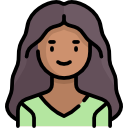
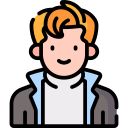
change img to Image

diff --git a/src/components/users/modificar.js b/src/components/users/modificar.js
@@ -1,10 +1,11 @@
 'use client'
 import { editUser } from '@/lib/actions/users'
 import { useActionState, useEffect, useId } from 'react'
-import { EyeIcon, EyeOffIcon, PlusIcon, RefreshCwIcon, UserRoundIcon } from 'lucide-react';
+import { EyeIcon, EyeOffIcon, PlusIcon, RefreshCwIcon } from 'lucide-react';
 import { toast } from 'sonner';
 import CheckBox from '@/components/check-box';
 import CheckRadio from '@/components/check-radio';
+import Image from 'next/image';
 
 
 
@@ -54,7 +55,7 @@ export default function UserModificar({ session, user }) {
                     defaultChecked={true}
                     className="size-14 has-checked:col-span-4 has-checked:row-span-3 has-checked:-order-1 has-checked:size-36 has-checked:bg-green-200 px-2 py-1 rounded-md"
                 >
-                    <img src={user.image || '/images/avatar-80.png'} alt="Imagen de usuario" />
+                    <Image src={user.image || '/images/avatar-80.png'} alt='avatar' />
                 </CheckRadio>
             </div>
 

diff --git a/src/components/users/eliminar.js b/src/components/users/eliminar.js
@@ -1,6 +1,7 @@
 'use client'
 import { deleteUser } from "@/lib/actions/users";
-import { RefreshCwIcon, TrashIcon, UserRoundIcon } from "lucide-react";
+import { RefreshCwIcon, TrashIcon } from "lucide-react";
+import Image from "next/image";
 import { useRouter } from "next/navigation";   // IMPORTANTE: No importar desde next/router
 import { useActionState, useEffect, useId } from "react";
 import { toast } from "sonner";
@@ -42,7 +43,7 @@ function UserEliminar({ user }) {
 
             <div className="grid md:grid-cols-[120px_auto] gap-4">
 
-                <img src={user.image || '/images/avatar-80.png'} alt="Imagen de usuario" width={192} />
+                <Image src={user.image || '/images/avatar-80.png'} alt="avatar" width={192} />
 
                 <div>
                     {user.active

diff --git a/src/components/header.js b/src/components/header.js
@@ -3,6 +3,7 @@ import { logout } from '@/lib/actions/auth';
 import { auth } from '@/auth';
 import MenuLink from '@/components/menu-link';
 import Link from 'next/link'
+import Image from 'next/image';
 
 
 
@@ -41,7 +42,7 @@ export default async function Header() {
             <Link
               href="/dashboard"
               className="w-full rounded-full hover:outline hover:outline-slate-600 cursor-pointer">
-              {session.user.image ? <img src={session.user.image} className='size-10 rounded-full' /> : <UserRoundIcon className='size-10 p-2' />}
+              <Image src={session.user.image || '/images/avatar-80.png'} alt='avatar' className='size-10 rounded-full' />
             </Link>
 
             <form className="flex gap-2 items-center">

diff --git a/src/components/users/insertar.js b/src/components/users/insertar.js
@@ -5,6 +5,7 @@ import { PlusIcon, RefreshCwIcon } from 'lucide-react';
 import { toast } from 'sonner';
 import CheckBox from '@/components/check-box';
 import CheckRadio from '@/components/check-radio';
+import Image from 'next/image';
 
 
 
@@ -53,7 +54,7 @@ export default function UserInsertar({ session }) {
                     defaultChecked={true}
                     className="size-14 has-checked:col-span-5 has-checked:row-span-3 has-checked:-order-1 has-checked:size-36 has-checked:bg-green-200 px-2 py-1 rounded-md"
                 >
-                    <img src={`/images/avatar-80.png`} alt="Imagen de usuario" />
+                    <Image src={`/images/avatar-80.png`} alt='avatar' />
                 </CheckRadio>
             </div>
 

diff --git a/src/app/dashboard/page.jsx b/src/app/dashboard/page.jsx
@@ -9,6 +9,7 @@ import { LockIcon, PencilIcon } from "lucide-react"
 import { redirect } from "next/navigation"
 import { Suspense } from "react"
 import { auth } from "@/auth"
+import Image from "next/image"
 
 
 
@@ -49,7 +50,7 @@ async function Dashboard() {
 
             <div className="grid md:grid-cols-[160px_auto]">
 
-                <img src={image || '/images/avatar-80.png'} className="size-36" alt="Imagen de usuario" />
+                <Image src={image || '/images/avatar-80.png'} alt='avatar' className="size-36" />
 
                 <div className="flex flex-col gap-1">
                     <div className="flex gap-2 items-center">

diff --git a/src/components/users/ver.js b/src/components/users/ver.js
@@ -1,4 +1,4 @@
-import { UserRoundIcon } from "lucide-react";
+import Image from "next/image";
 
 
 function UserVer({ user }) {
@@ -6,7 +6,7 @@ function UserVer({ user }) {
         <div>
             <div className="grid md:grid-cols-[120px_auto] gap-4">
 
-                <img src={user.image || '/images/avatar-80.png'} alt="Imagen de usuario" width={192} />
+                <Image src={user.image || '/images/avatar-80.png'} alt='avatar' width={192} />
 
                 <div>
                     {user.active
